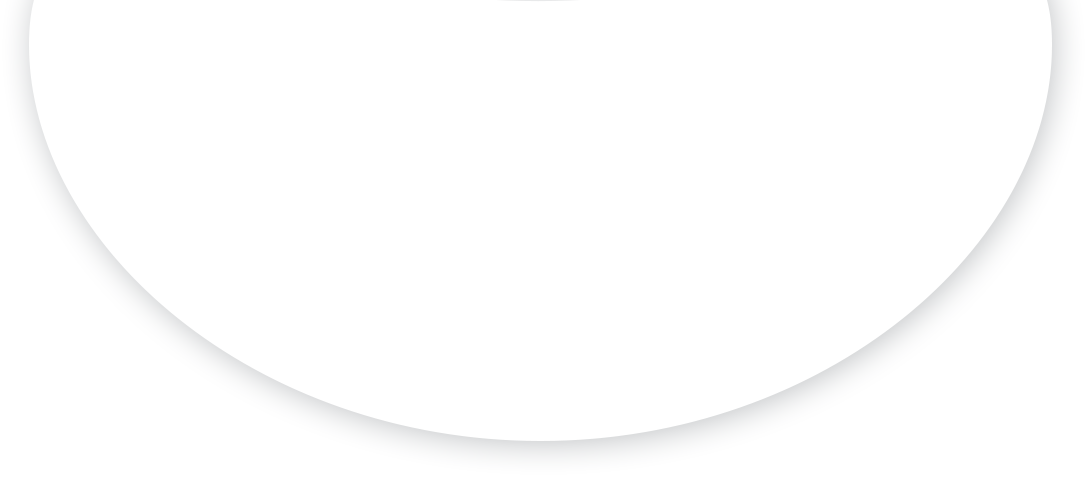
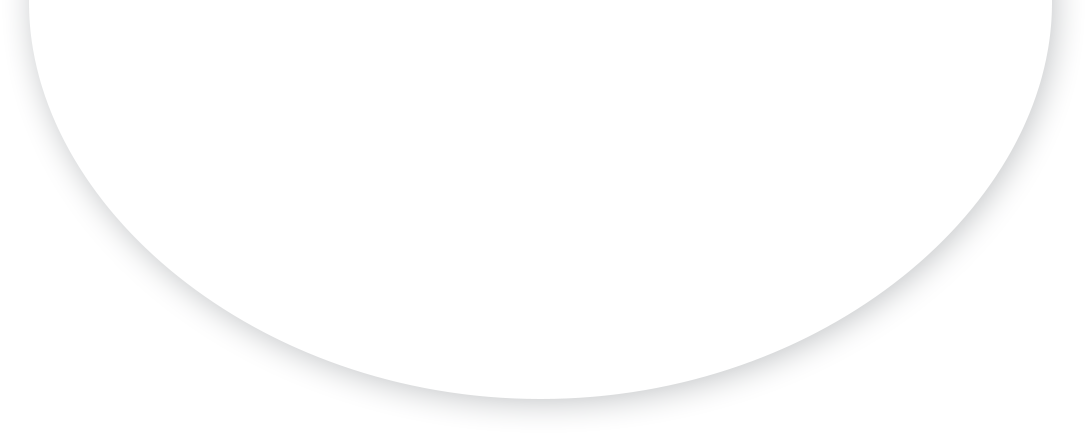
update

diff --git a/less/page.css b/less/page.css
@@ -1,1 +1,1 @@
-@import url("https://fonts.googleapis.com/css?family=Roboto:300,400,500,500i,700,700i,900");@import url("https://fonts.googleapis.com/css?family=Oswald:700");.four-block{margin-top:150px}.robo{font-family:"Roboto",sans-serif}.oswal{font-family:"Oswald",sans-serif}.bold{font-weight:700}.black{font-weight:900}.upper{text-transform:uppercase}.mb-0{margin-bottom:0}.mt-10{margin-top:10px}.mt-20{margin-top:20px}.mb-10{margin-bottom:10px}.mb-20{margin-bottom:20px}.placeholder ::-webkit-input-placeholder{font-family:"Roboto",sans-serif;font-weight:300;color:#333}.placeholder ::-moz-placeholder{font-family:"Roboto",sans-serif;font-weight:300;color:#333}.placeholder :-ms-input-placeholder{font-family:"Roboto",sans-serif;font-weight:300;color:#333}.placeholder :-moz-placeholder{font-family:"Roboto",sans-serif;font-weight:300;color:#1a1a1a}#header{height:74px;background-color:white}#header .navbar-brand{padding:10px}#header .navbar-brand img{width:170px}#header .navbar-content li{padding:7px}.home-banner{background-image:url("../img/banner.png");background-repeat:no-repeat;background-size:cover;height:100vh}.four-block.details img{margin:0 auto;width:250px}.four-block.details .det-1{margin-bottom:0;font-family:"Oswald",sans-serif;font-weight:700;font-size:28px;text-transform:uppercase}.four-block.details .det-1 span:first-child{color:#a63a67}.four-block.details .det-1 span:nth-child(2){color:#5a4d83}.four-block.details .det-1 span:last-child{color:#a63a67}.four-block.details .head-white{font-family:"Oswald",sans-serif;color:white;font-size:32px;text-transform:uppercase}.four-block.details .venue{font-size:18px;letter-spacing:.5px;margin-bottom:0;padding:10px 0;width:270px;margin:0 auto;border:2px solid white}.four-block.details .venue span:last-child{color:#a63a67;font-weight:700}.four-block.details .time{margin-top:10px;font-family:"Oswald",sans-serif;font-size:16px}.four-block.details .time span:first-child{color:white}.four-block.details .time span:last-child{color:#000;margin-left:10px}.four-block .register{font-family:"Roboto",sans-serif;background-color:rgba(255,255,255,0.5);padding:50px 30px;margin:0 20px}.four-block .register .btn{background-color:#93438f;color:white;font-weight:500;font-size:16px;padding:8px 20px;margin-top:20px}.four-block .register .form-group ::-webkit-input-placeholder{font-family:"Roboto",sans-serif;font-weight:300;color:#333}.four-block .register .form-group ::-moz-placeholder{font-family:"Roboto",sans-serif;font-weight:300;color:#333}.four-block .register .form-group :-ms-input-placeholder{font-family:"Roboto",sans-serif;font-weight:300;color:#333}.four-block .register .form-group :-moz-placeholder{font-family:"Roboto",sans-serif;font-weight:300;color:#1a1a1a}.four-block .register .form-group .form-control{height:40px;border-radius:0;border:none}
+@import url("https://fonts.googleapis.com/css?family=Roboto:300,400,500,700,900");@import url("https://fonts.googleapis.com/css?family=Oswald:700");.four-block{margin-top:150px}.robo{font-family:"Roboto",sans-serif}.oswal{font-family:"Oswald",sans-serif}.bold{font-weight:700}.black{font-weight:900}.upper{text-transform:uppercase}.mb-0{margin-bottom:0}.mt-10{margin-top:10px}.mt-20{margin-top:20px}.mb-10{margin-bottom:10px}.mb-20{margin-bottom:20px}.placeholder ::-webkit-input-placeholder{font-family:"Roboto",sans-serif;font-weight:300;color:#333}.placeholder ::-moz-placeholder{font-family:"Roboto",sans-serif;font-weight:300;color:#333}.placeholder :-ms-input-placeholder{font-family:"Roboto",sans-serif;font-weight:300;color:#333}.placeholder :-moz-placeholder{font-family:"Roboto",sans-serif;font-weight:300;color:#1a1a1a}.no-padding{padding:0 !important}#header{height:74px;background-color:white}#header .navbar-brand{padding:10px}#header .navbar-brand img{width:170px}#header .navbar-content li{padding:7px}.home-banner{background-image:url("../img/banner.png");background-repeat:no-repeat;background-size:cover;height:100vh}.four-block.details img{margin:0 auto;width:250px}.four-block.details .det-1{margin-bottom:0;font-family:"Oswald",sans-serif;font-weight:700;font-size:28px;text-transform:uppercase}.four-block.details .det-1 span:first-child{color:#a63a67}.four-block.details .det-1 span:nth-child(2){color:#5a4d83}.four-block.details .det-1 span:last-child{color:#a63a67}.four-block.details .head-white{font-family:"Oswald",sans-serif;color:white;font-size:32px;text-transform:uppercase}.four-block.details .venue{font-size:18px;letter-spacing:.5px;margin-bottom:0;padding:10px 0;width:270px;margin:0 auto;border:2px solid white}.four-block.details .venue span:last-child{color:#a63a67;font-weight:700}.four-block.details .time{margin-top:10px;font-family:"Oswald",sans-serif;font-size:16px}.four-block.details .time span:first-child{color:white}.four-block.details .time span:last-child{color:#000;margin-left:10px}.four-block .register{font-family:"Roboto",sans-serif;background-color:rgba(255,255,255,0.5);padding:50px 30px;margin:0 20px}.four-block .register .btn{background-color:#93438f;color:white;font-weight:500;font-size:16px;padding:8px 20px;margin-top:20px}.four-block .register .form-group ::-webkit-input-placeholder{font-family:"Roboto",sans-serif;font-weight:300;color:#333}.four-block .register .form-group ::-moz-placeholder{font-family:"Roboto",sans-serif;font-weight:300;color:#333}.four-block .register .form-group :-ms-input-placeholder{font-family:"Roboto",sans-serif;font-weight:300;color:#333}.four-block .register .form-group :-moz-placeholder{font-family:"Roboto",sans-serif;font-weight:300;color:#1a1a1a}.four-block .register .form-group .form-control{height:40px;border-radius:0;border:none}.circle-wrap{background-image:url("../img/ellipses.png");height:478px;background-size:contain;background-repeat:no-repeat}.circle-wrap .content{margin-top:50px}.circle-wrap .content .xhale{color:#5a4d83;font-style:italic;font-size:24px}.circle-wrap .content .best{font-family:"Oswald",sans-serif;font-size:28px}.circle-wrap .content .best .vio{color:#5a4d83}.circle-wrap .content .best .green{color:#419472}.circle-wrap .content .best .grey{color:grey}.circle-wrap .content .early{font-family:"Oswald",sans-serif;font-size:48px;position:relative}.circle-wrap .content .early span:first-child{color:#38a8d7}.circle-wrap .content .early span:last-of-type{color:#ee5691}.circle-wrap .content .early img{margin:auto;position:absolute;left:0;top:-4px;right:0}.circle-wrap .content .normal{font-family:"Oswald",sans-serif;font-size:30px}.circle-wrap .content .normal span:first-child{color:#267da7}.circle-wrap .content .normal span:last-child{color:#9c3969}.pink-head p{color:white;font-family:"Oswald",sans-serif;position:absolute;top:13px;font-size:32px;left:0;right:0;text-align:center}.ws-content{margin-top:60px}.ws-content .content{margin-bottom:40px}.ws-content .content p{font-family:"Roboto",sans-serif}.ws-content .content p.head{color:#22307d;font-weight:700;font-size:24px}.ws-content .content p.desc{font-weight:300;font-size:16px;letter-spacing:.5px}.certif p{font-family:"Roboto",sans-serif;color:#dd4763;font-weight:900;font-size:34px;border:2px solid;padding:15px 10px;margin:60px 20px}.partners.table tr td{border:none;vertical-align:middle}.partners.table tr td p{font-family:"Roboto",sans-serif;font-weight:700;font-style:italic;font-size:16px;letter-spacing:.5px;margin-bottom:0}

diff --git a/less/views/home.less b/less/views/home.less
@@ -90,3 +90,126 @@
     }
   }
 }
+
+.circle-wrap {
+  background-image: url("@{base-url}ellipses.png");
+  height: 478px;
+  background-size: contain;
+  background-repeat: no-repeat;
+  .content {
+    margin-top: 50px;
+    .xhale {
+      color: @dark-blue;
+      font-style: italic;
+      font-size: 24px;
+    }
+    .best {
+      .oswal;
+      // .upper;
+      font-size: 28px;
+      .vio {
+        color: @dark-blue;
+      }
+      .green {
+        color: @dark-green;
+      }
+      .grey {
+        color: grey;
+      }
+    }
+    .early {
+      .oswal;
+      font-size: 48px;
+      position: relative;
+      span {
+        &:first-child {
+          color: #38a8d7;
+        }
+        &:last-of-type {
+          color: #ee5691;
+        }
+      }
+      img {
+        margin: auto;
+        position: absolute;
+        left: 0;
+        top: -4px;
+        right: 0;
+      }
+    }
+    .normal {
+      .oswal;
+      font-size: 30px;
+      span {
+        &:first-child {
+          color: #267da7;
+        }
+        &:last-child {
+          color: #9c3969;
+        }
+      }
+    }
+  }
+}
+
+.pink-head {
+  p {
+    color: @white;
+    .oswal;
+    position: absolute;
+    top: 13px;
+    font-size: 32px;
+    left: 0;
+    right: 0;
+    text-align: center;
+  }
+}
+
+.ws-content {
+  margin-top: 60px;
+  .content {
+    margin-bottom: 40px;
+    p {
+      .robo;
+      &.head {
+        color: @head-blue;
+        font-weight: 700;
+        font-size: 24px;
+      }
+      &.desc {
+        font-weight: 300;
+        font-size: 16px;
+        letter-spacing: 0.5px;
+      }
+    }
+  }
+}
+
+.certif {
+  p {
+    .robo;
+    color: #dd4763;
+    font-weight: 900;
+    font-size: 34px;
+    border: 2px solid;
+    padding: 15px 10px;
+    margin: 60px 20px;
+  }
+}
+
+.partners.table {
+  tr {
+    td {
+      border: none;
+      vertical-align: middle;
+      p {
+        .robo;
+        font-weight: 700;
+        font-style: italic;
+        font-size: 16px;
+        letter-spacing: 0.5px;
+        .mb-0;
+      }
+    }
+  }
+}

diff --git a/less/page.less b/less/page.less
@@ -1,5 +1,5 @@
 // out: ../less/page.css,compress: true
-@import url("https://fonts.googleapis.com/css?family=Roboto:300,400,500,500i,700,700i,900");
+@import url("https://fonts.googleapis.com/css?family=Roboto:300,400,500,700,900");
 @import url("https://fonts.googleapis.com/css?family=Oswald:700");
 // ----------------------------------------------------------------------
 // Base

diff --git a/less/base/variables.less b/less/base/variables.less
@@ -5,3 +5,5 @@
 @base-url: "../img/";
 @black: #000;
 @btn-violet: #93438f;
+@dark-green: #419472;
+@head-blue: #22307d;

diff --git a/less/base/common.less b/less/base/common.less
@@ -65,3 +65,7 @@
     color: lighten(@black, 10%);
   }
 }
+
+.no-padding {
+  padding: 0 !important;
+}

diff --git a/index.php b/index.php
@@ -58,5 +58,140 @@
             </div>
         </div>
     </div>
+    <div class="row">
+        <div class="col-md-10 col-md-offset-1 circle-wrap">
+            <div class="row">
+                <div class="col-md-10 col-md-offset-1">
+                    <div class="text-center content">
+                        <p class="xhale">Xhale asia brings you</p>
+                        <p class="best">
+                            <span class="vio">The best in</span>
+                            <span class="green">Yoga</span>
+                            <span class="grey">&amp;</span>
+                            <span class="green">Wellness training</span>
+                        </p>
+                        <p class="early">
+                            <span>Early Bird:</span>
+                            <span>RM1,699</span>
+                            <img src="img/rectangle.png" alt="" class="img-responsive">
+                        </p>
+                        <p class="normal">
+                            <span>Normal Price:</span>
+                            <span>RM2,399</span>
+                        </p>
+                    </div>
+                </div>
+            </div>
+        </div>
+    </div>
+    <div class="row">
+        <div class="col-sm-6 no-padding pink-head">
+            <img src="img/pink-rect.png" alt="" class="img-responsive">
+            <p>Saturday 7
+                <sup>th</sup>
+                April 2018
+            </p>
+        </div>
+        <div class="col-sm-6">
+
+        </div>
+    </div>
+    <div class="row">
+        <div class="col-sm-6">
+            <div class="row">
+                <div class="col-sm-8 col-sm-offset-2">
+                    <div class="ws-content">
+                        <div class="content">
+                            <p class="head">Workshop 1</p>
+                            <p class="desc">Lorem ipsum dolor sit amet consectetur adipisicing elit. Perspiciatis, adipisci.</p>
+                        </div>
+                        <div class="content">
+                            <p class="head">Workshop 1</p>
+                            <p class="desc">Lorem ipsum dolor sit amet consectetur adipisicing elit. Perspiciatis, adipisci.</p>
+                        </div>
+                    </div>
+                </div>
+            </div>
+
+        </div>
+        <div class="col-sm-6">
+            <img src="img/cow-face.png" alt="" class="img-responsive">
+        </div>
+    </div>
+    <div class="row">
+        <div class="col-sm-6">
+
+        </div>
+        <div class="col-sm-6 no-padding pink-head">
+            <img src="img/red-rect.png" alt="" class="img-responsive">
+            <p>Saturday 8
+                <sup>th</sup>
+                April 2018
+            </p>
+        </div>
+
+    </div>
+    <div class="row">
+        <div class="col-sm-6">
+            <img src="img/dand.png" alt="" class="img-responsive">
+        </div>
+        <div class="col-sm-6">
+            <div class="row">
+                <div class="col-sm-8 col-sm-offset-2">
+                    <div class="ws-content">
+                        <div class="content">
+                            <p class="head">Workshop 1</p>
+                            <p class="desc">Lorem ipsum dolor sit amet consectetur adipisicing elit. Perspiciatis, adipisci.</p>
+                        </div>
+                        <div class="content">
+                            <p class="head">Workshop 1</p>
+                            <p class="desc">Lorem ipsum dolor sit amet consectetur adipisicing elit. Perspiciatis, adipisci.</p>
+                        </div>
+                    </div>
+                </div>
+            </div>
+
+        </div>
+
+    </div>
+    <div class="row">
+        <div class="col-sm-6 col-sm-offset-3 certif">
+            <p class="text-center">Certificate of Participation Given</p>
+        </div>
+    </div>
+    <div class="row">
+        <hr>
+        <div class="container">
+            <div class="row">
+                <div class="col-sm-4">
+                    <table class="table partners">
+                        <tr>
+                            <td>
+                                <p>Organised By:</p>
+                            </td>
+                            <td>
+                                <img src="img/Xhale.png" alt="" class="img-responsive">
+                            </td>
+                        </tr>
+                    </table>
+                </div>
+                <div class="col-sm-8">
+                    <table class="table partners">
+                        <tr>
+                            <td>
+                                <p>In collaboration With:</p>
+                            </td>
+                            <td>
+                                <img src="img/murfest.png" alt="" class="img-responsive">
+                            </td>
+                            <td>
+                                <img src="img/yoga.png" alt="" class="img-responsive">
+                            </td>
+                        </tr>
+                    </table>
+                </div>
+            </div>
+        </div>
+    </div>
 </div>
 <?php include 'layout/footer.php'?>

diff --git a/layout/header.php b/layout/header.php
@@ -31,7 +31,7 @@
             <span class="icon-bar"></span>
           </button>
           <a class="navbar-brand" href="home.php">
-            <img src="img/logo-black.png" class="img-responsive hidden-xs">
+            <img src="img/logo-black.png" class="img-responsive">
           </a>
         </div>
         <div class="collapse navbar-collapse navbar-right" id="mobile-view">
